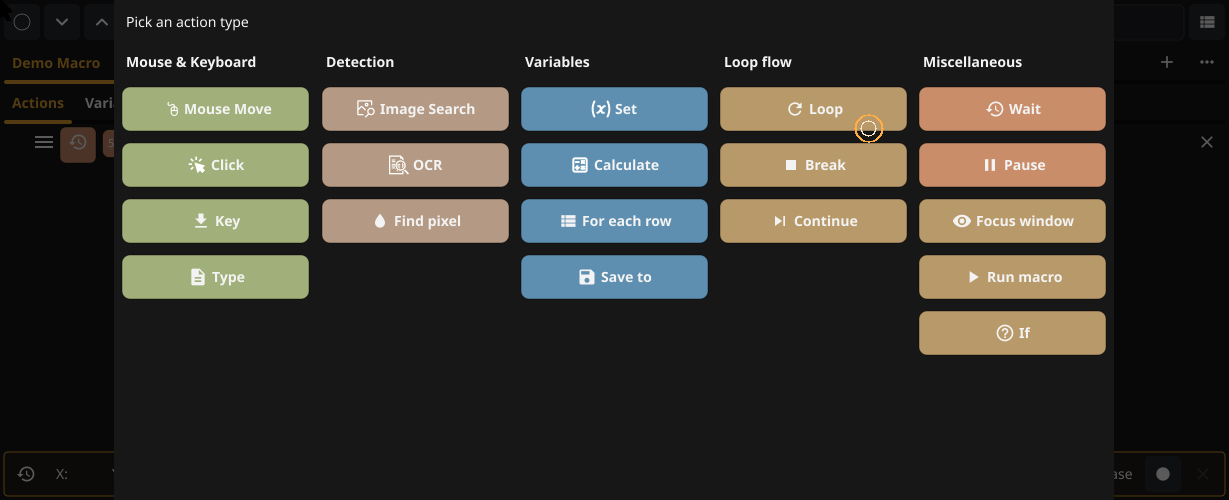
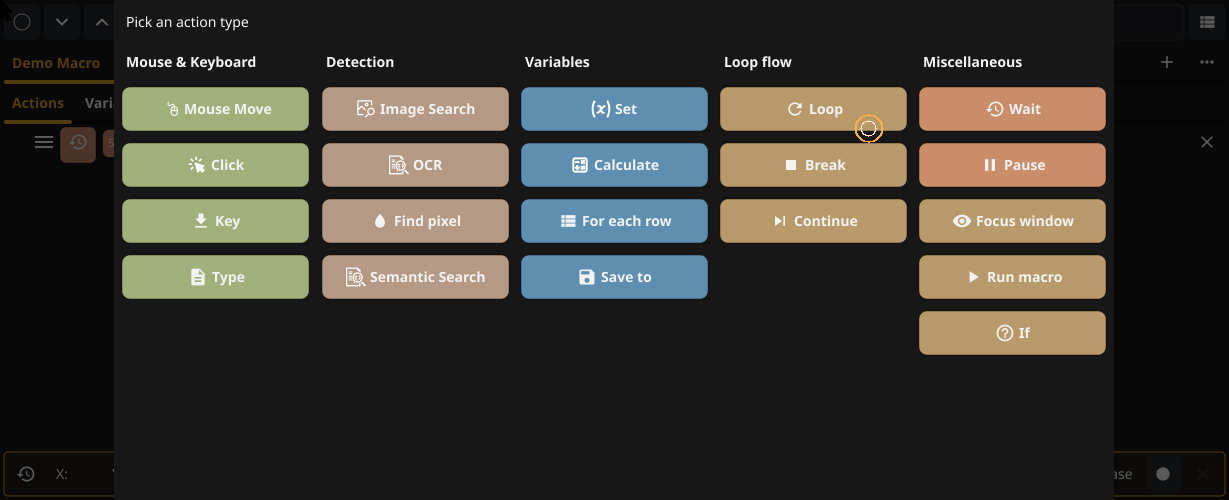
Document semantic vision architecture and update action picker screenshots.

Changed region(s): [[0.2474, 0.51, 0.4329, 0.6]]

diff --git a/docs/SEMANTIC_VISION.md b/docs/SEMANTIC_VISION.md
@@ -1,0 +1,142 @@
+# Semantic Vision Detection
+
+Open-vocabulary object detection for **Semantic Search** macros — describe what to find in plain text (e.g. *"All Healing potions"*, *"Metal Armor"*) without pre-captured icon templates.
+
+## Architecture: lean Sqyre + optional `sqyre-vision` worker
+
+| Binary | Size | Role |
+|--------|------|------|
+| **`sqyre`** | Lean (default) | UI, macros, `RemoteDetector` → shells out to worker |
+| **`sqyre-vision`** | Large (~300MB+ with embed) | YOLO-World + CLIP ONNX inference only |
+
+```
+sqyre  ──JSON/stdin──►  sqyre-vision detect  ──►  bounding boxes
+         temp PNG            ONNX models
+```
+
+The main app never links ONNX models. Users choose:
+
+1. **Vision AppImage / embedded worker** — `sqyre-vision` beside `sqyre`, models embedded in worker binary (`vision_embed` build).
+2. **Lean install + external models** — build `sqyre-vision` without embed, run `scripts/vision/download-models.sh`, point Settings → models directory at `~/.sqyre/models`.
+3. **Custom worker path** — Settings → worker binary path for a self-built `sqyre-vision`.
+
+## Settings (Sqyre → Settings → Semantic vision)
+
+| Preference | Purpose |
+|------------|---------|
+| Worker binary path | Path to `sqyre-vision`; empty = auto-detect sibling of `sqyre` or `PATH` |
+| Models directory | Passed to worker as `SQUIRE_VISION_MODEL_DIR`; default `~/.sqyre/models` |
+
+Environment variables (AppImage / advanced):
+
+| Variable | Purpose |
+|----------|---------|
+| `SQUIRE_VISION_WORKER` | Worker binary path (overrides auto-detect) |
+| `SQUIRE_VISION_MODEL_DIR` | ONNX model directory |
+| `SQUIRE_ORT_LIB` | Path to `libonnxruntime.so` |
+
+## Build
+
+```bash
+# Lean main app (default)
+make linux
+
+# Embedded vision worker (downloads models, embeds in binary)
+make sqyre-vision-embed
+
+# bin/sqyre + embedded bin/sqyre-vision
+make linux-vision
+
+# Lean worker (uses ~/.sqyre/models; run make vision-models first)
+make sqyre-vision
+
+# Vision AppImage
+make appimage-vision
+```
+
+Place `sqyre-vision` next to `sqyre`, or set the worker path in Settings.
+
+## AppImage
+
+| Script | Output |
+|--------|--------|
+| `scripts/linux/packaging/appimage/build-appimage.sh` | Lean Sqyre only |
+| `scripts/linux/packaging/appimage/build-appimage-vision.sh` | Sqyre + `sqyre-vision` + ORT; sets `SQUIRE_VISION_WORKER` |
+
+## Models (`~/.sqyre/models/`)
+
+| File | Role |
+|------|------|
+| `yolov8s-worldv2.onnx` | Source model from [Instemic/yolo-world-onnx](https://huggingface.co/Instemic/yolo-world-onnx) |
+| `clip-text-vit-b32.onnx` | Source model from [inference4j/clip-vit-base-patch32](https://huggingface.co/inference4j/clip-vit-base-patch32) |
+
+Download via `make vision-models`. Embedded vision builds ship source `.onnx` only; on first semantic-vision load they are extracted to `~/.sqyre/models/` and optimized caches are written alongside:
+
+- `*.optimized.onnx` — created in-process via ONNX Runtime (default, no Python required)
+- `*.ort` — optional mmap-friendly cache if `SQUIRE_VISION_CONVERT_SCRIPT` points at `scripts/vision/convert-models-to-ort.sh` and Python onnxruntime is installed
+
+CLIP BPE tokenizer (`vocab.json`, `merges.txt`, ~1.4 MB) is embedded in `sqyre-vision` like Tesseract `eng.traineddata` — gitignored, fetched with `make clip-tokenizer`.
+
+## Worker protocol
+
+```bash
+sqyre-vision detect < request.json
+```
+
+Request (stdin JSON):
+
+```json
+{
+  "prompts": ["healing potions"],
+  "image_path": "/tmp/frame.png",
+  "confidence_threshold": 0.25,
+  "iou_threshold": 0.45,
+  "max_matches": 10
+}
+```
+
+Response (stdout JSON):
+
+```json
+{
+  "detections": [
+    {"label": "healing potions", "confidence": 0.87, "bounds": {"min_x": 10, "min_y": 20, "max_x": 50, "max_y": 60}}
+  ]
+}
+```
+
+Subcommands: `ping`, `detect`, `info`.
+
+## Macro YAML
+
+```yaml
+- type: semanticsearch
+  name: find potions
+  prompt: "All Healing potions"
+  searcharea:
+    program: MyGame
+    name: Inventory
+  confidencethreshold: 0.3
+  maxmatches: 10
+  outputxvariable: foundX
+  outputyvariable: foundY
+  outputlabelvariable: foundLabel
+  subactions:
+    - type: click
+      button: left
+```
+
+## Testing
+
+```bash
+./scripts/test.sh ./internal/vision/...
+```
+
+Integration with real models:
+
+```bash
+./scripts/vision/download-models.sh
+export SQUIRE_ORT_LIB=scripts/vision/.cache/libonnxruntime.so
+export SQUIRE_VISION_MODEL_DIR=~/.sqyre/models
+./bin/sqyre-vision info
+```